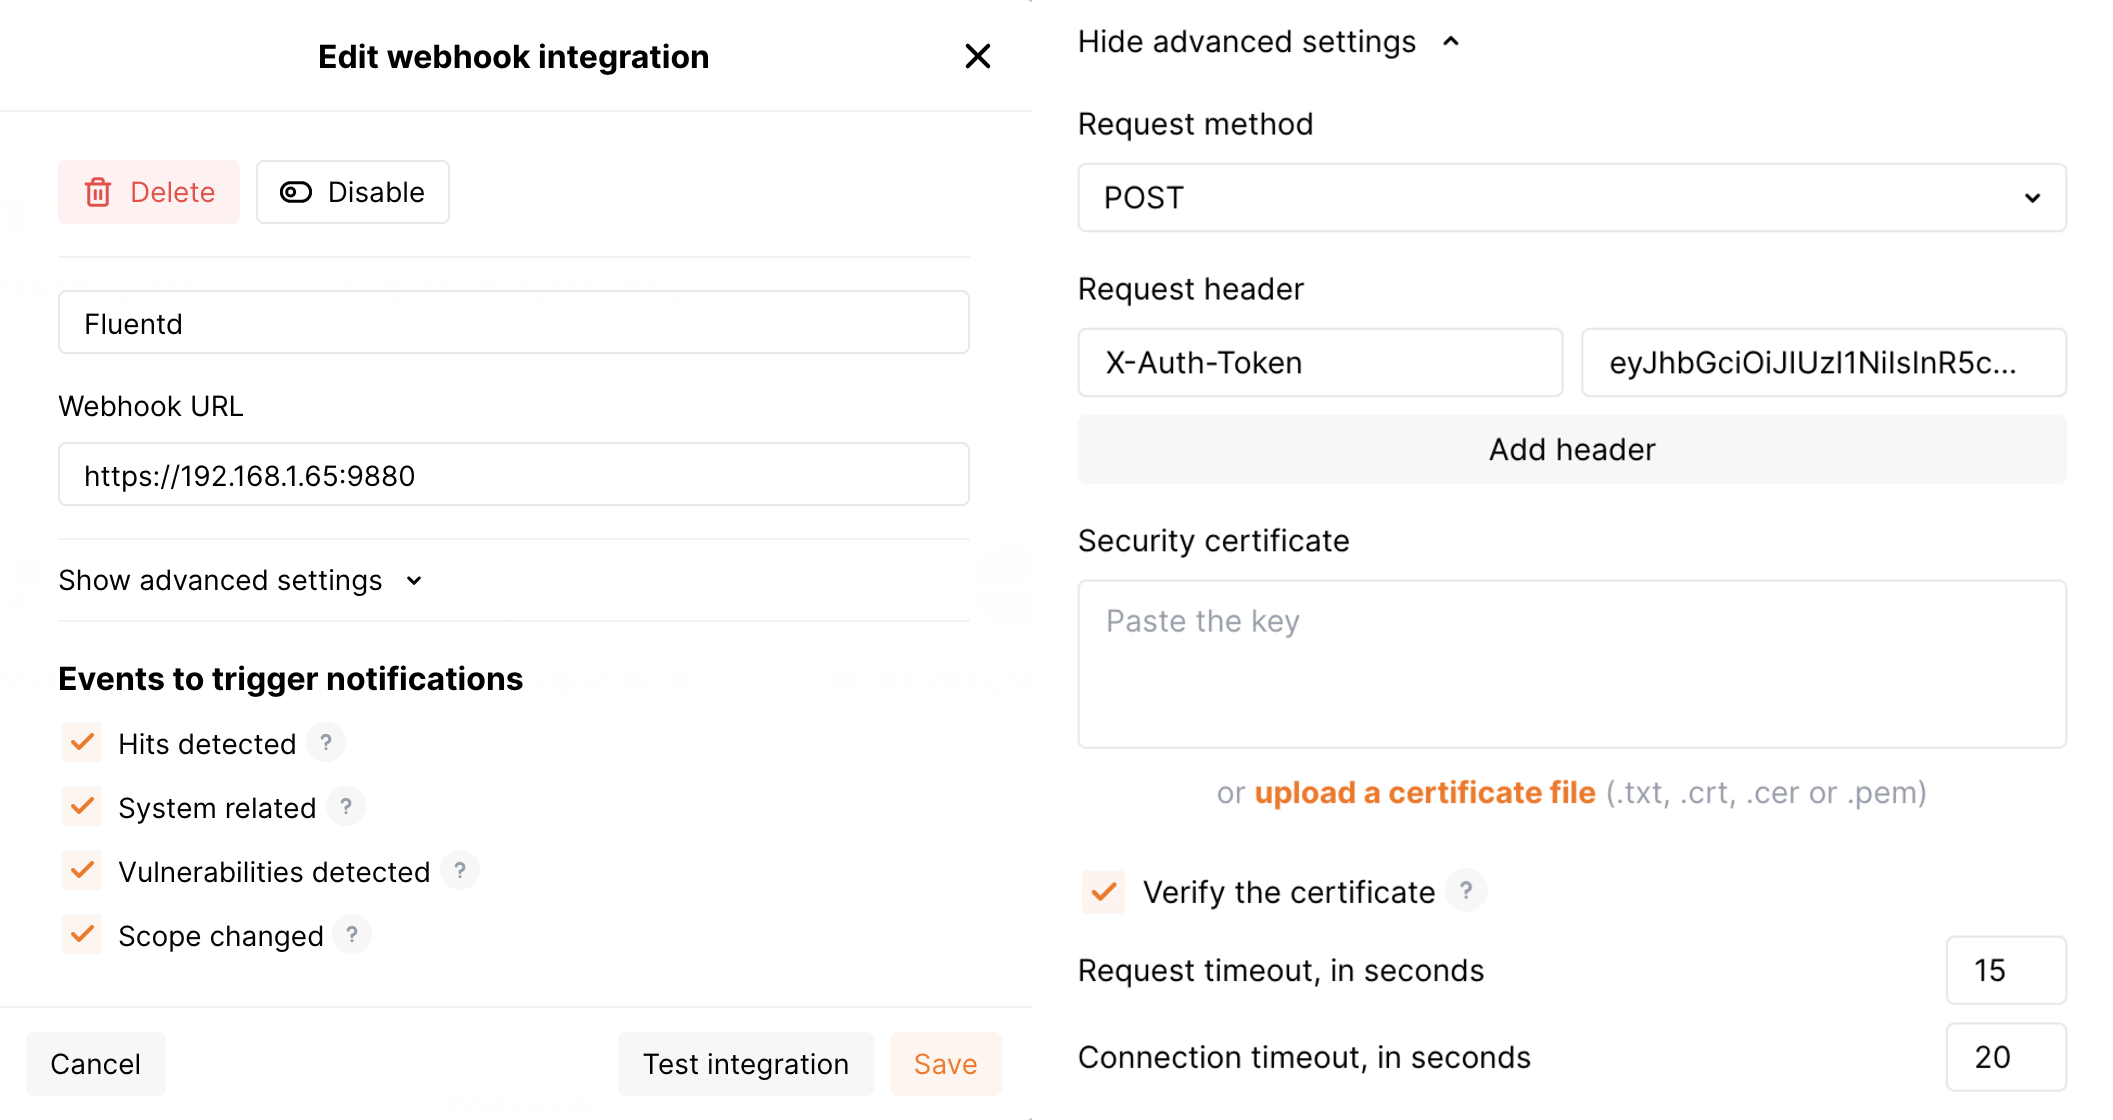
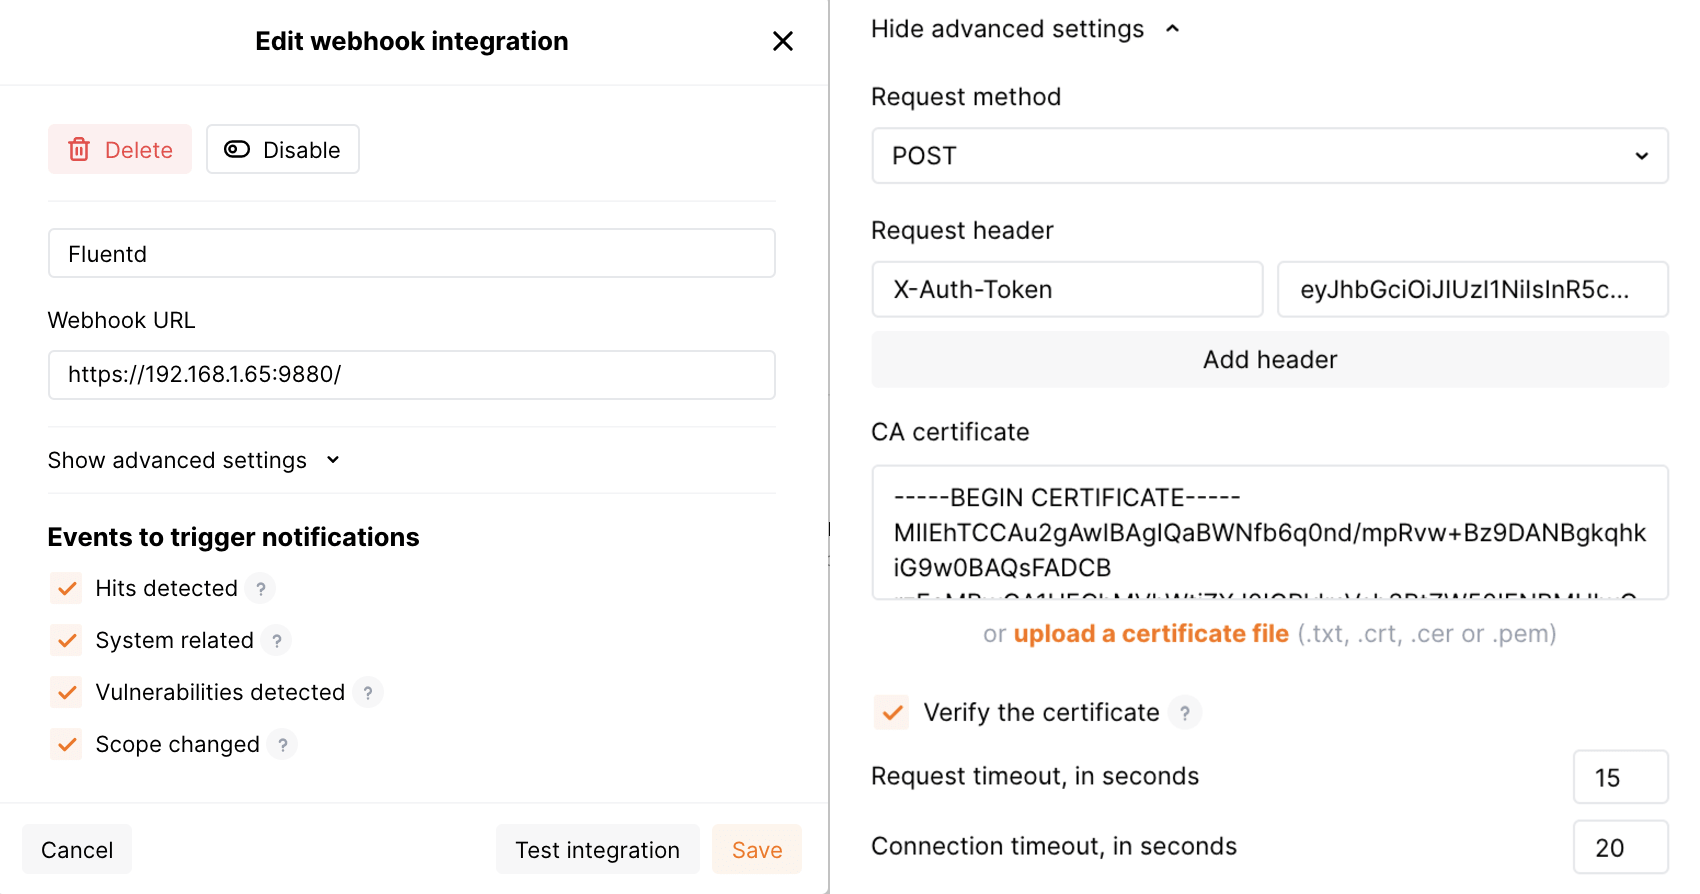
DOCS-1206 mention that Fluentd certificate should be specified in webhook int

diff --git a/include/integrations/webhook-examples/create-fluentd-webhook.md b/include/integrations/webhook-examples/create-fluentd-webhook.md
@@ -1,4 +1,6 @@
 * Webhooks are sent to `https://fluentd-example-domain.com`
 * Webhooks are sent via POST requests
 * Additional authentication parameter `X-Auth-Token` is passed in the request
+* Certificate for HTTPS connection to `https://fluentd-example-domain.com` is passed in the request (the certificate is located in the file `/etc/ssl/certs/fluentd.crt` on the Fluentd instance)
+* The certificate is additionally verified on the Wallarm side
 * Webhooks sent to Webhook URLs are all available events: hits, system events, vulnerabilities, scope changes

diff --git a/include/integrations/webhook-examples/create-fluentd-webhook-ip.md b/include/integrations/webhook-examples/create-fluentd-webhook-ip.md
@@ -1,4 +1,6 @@
 * Webhooks are sent to `https://192.168.1.65:9880`
 * Webhooks are sent via POST requests
 * Additional authentication parameter `X-Auth-Token` is passed in the request
+* Certificate for HTTPS connection to `https://192.168.1.65:9880` is passed in the request (the certificate is located in the file `/etc/ssl/certs/fluentd.crt` on the Fluentd instance)
+* The certificate is additionally verified on the Wallarm side
 * Webhooks sent to Webhook URLs are all available events: hits, system events, vulnerabilities, scope changes
